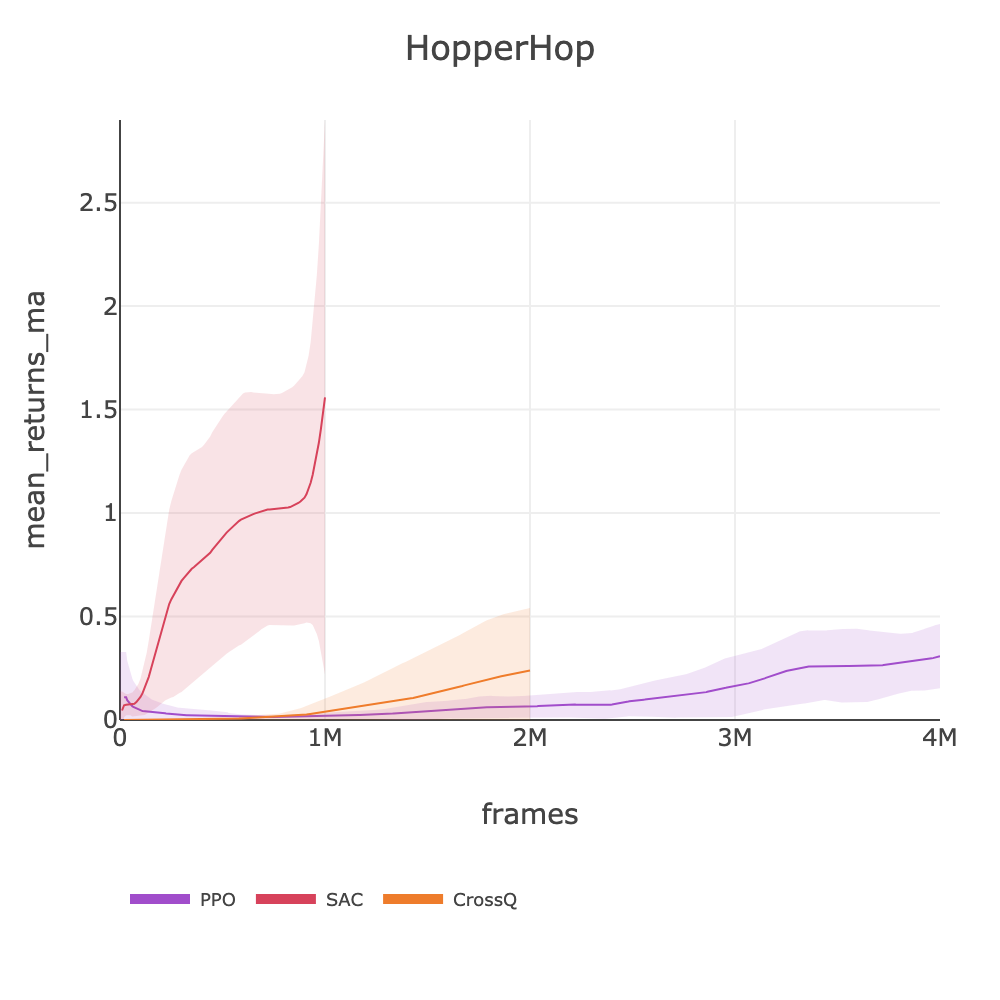
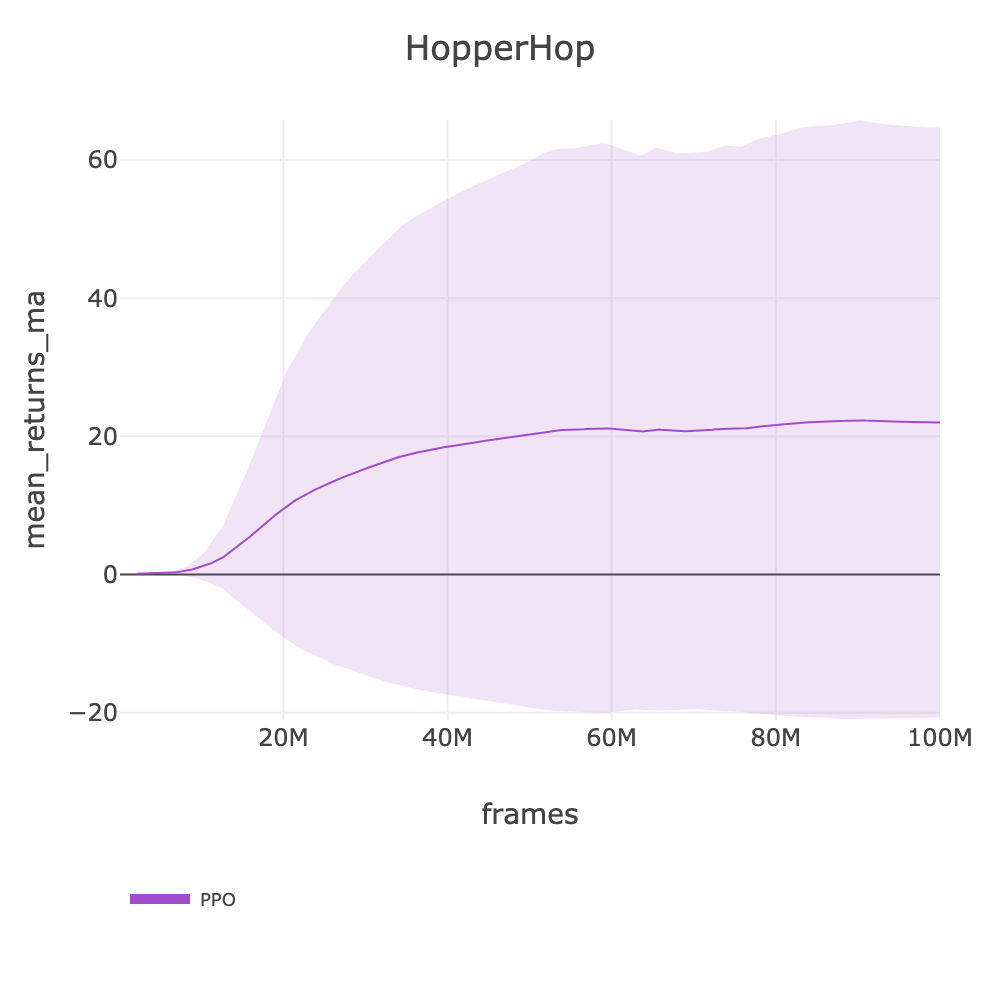
feat: intake PPO BallInCup (942, ✅) + HopperHop (22, ❌)
BallInCup: 942.44 MA >> target 680, converges by 20M frames
HopperHop: 22 MA, spec failure (ppo_playground flat plateau)

diff --git a/docs/BENCHMARKS.md b/docs/BENCHMARKS.md
@@ -889,7 +889,7 @@ source .env && uv run slm-lab run-remote --gpu \
 | playground/AcrobotSwingupSparse | PPO | ✅ | 42.74 | ppo_playground | [ppo_playground_acrobotswingupsparse_2026_03_12_103824](https://huggingface.co/datasets/SLM-Lab/benchmark-dev/tree/main/data/ppo_playground_acrobotswingupsparse_2026_03_12_103824) | 15 | 17390 | 100M | 1h 36m |
 | | CrossQ | 🔄 | - | crossq_playground | - | | - | - | - |
 | | SAC | 🔄 | - | sac_playground_hard | - | | - | - | - |
-| playground/BallInCup | PPO | 🔄 | - | ppo_playground | - | 680 | - | - | - |
+| playground/BallInCup | PPO | ✅ | 942.44 | ppo_playground | [ppo_playground_ballincup_2026_03_12_105443](https://huggingface.co/datasets/SLM-Lab/benchmark-dev/tree/main/data/ppo_playground_ballincup_2026_03_12_105443) | 680 | 11900 | 100M | 2h 20m |
 | | CrossQ | 🔄 | - | crossq_playground | - | | - | - | - |
 | | SAC | 🔄 | - | sac_playground | - | | - | - | - |
 | playground/CartpoleBalance | PPO | ⚠ | 792 | ppo_playground | [ppo_playground_cartpolebalance_2026_03_12_084408](https://huggingface.co/datasets/SLM-Lab/benchmark-dev/tree/main/data/ppo_playground_cartpolebalance_2026_03_12_084408) | 950 | 12.0K | 100M | 2h 19m |
@@ -919,7 +919,7 @@ source .env && uv run slm-lab run-remote --gpu \
 | playground/FishSwim | PPO | ⚠ | 489.29 | ppo_playground | [ppo_playground_fishswim_2026_03_12_084450](https://huggingface.co/datasets/SLM-Lab/benchmark-dev/tree/main/data/ppo_playground_fishswim_2026_03_12_084450) | 650 | 13590 | 100M | 2h 3m |
 | | CrossQ | 🔄 | - | crossq_playground | - | | - | - | - |
 | | SAC | 🔄 | - | sac_playground | - | | - | - | - |
-| playground/HopperHop | PPO | 🔄 | - | ppo_playground | - | ~2 | - | - | - |
+| playground/HopperHop | PPO | ❌ | 22.00 | ppo_playground | [ppo_playground_hopperhop_2026_03_12_110855](https://huggingface.co/datasets/SLM-Lab/benchmark-dev/tree/main/data/ppo_playground_hopperhop_2026_03_12_110855) | ~2 | 13630 | 100M | 2h 2m |
 | | CrossQ | 🔄 | - | crossq_playground | - | | - | - | - |
 | | SAC | 🔄 | - | sac_playground_hard | - | | - | - | - |
 | playground/HopperStand | PPO | 🔄 | - | ppo_playground_loco | - | ~70 | - | - | - |
